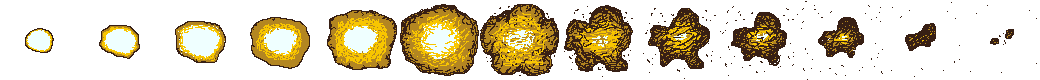
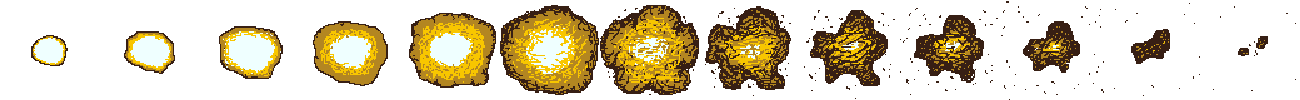
La inn den nye eksplosjonen, fikser kanskje litt p den senere

diff --git a/Tanks/src/entity/Explosion.java b/Tanks/src/entity/Explosion.java
@@ -14,13 +14,9 @@ public class Explosion extends Entity {
 		super(x, y, radius, radius, level);
 
 		this.explosionPower = explosionPower;
-<<<<<<< HEAD
 		if(radius >= 25)
-			ani = new Animation( AnimationFactory.getInstance().getAnimation(Animations.EXPLOSIONS,Animations.SMALLEXPLOSION),9,0,x,y,level);
-		ani = new Animation( AnimationFactory.getInstance().getAnimation(Animations.EXPLOSIONS,Animations.BIGEXPLOSION),13,0,x,y,level);
-=======
-		Animation ani = new Animation( AnimationFactory.getInstance().getAnimation(Animations.EXPLOSIONS,Animations.SMALLEXPLOSION),18,0,x,y,level);
->>>>>>> 15408c03b393657f6d041149724f1fdacd83c727
+			ani = new Animation( AnimationFactory.getInstance().getAnimation(Animations.EXPLOSIONS,Animations.SMALLEXPLOSION),18,0,x,y,level);
+		ani = new Animation( AnimationFactory.getInstance().getAnimation(Animations.EXPLOSIONS,Animations.BIGEXPLOSION),26,0,x,y,level);
 		level.addEntity(ani);
 				 
 

diff --git a/Tanks/src/level/testLevel.java b/Tanks/src/level/testLevel.java
@@ -73,6 +73,7 @@ public class testLevel extends BasicLevel {
 		addEntity(tankEntity2);
 
 		AnimationFactory.getInstance().addSpriteSheet(new File("./res/Explosion1.png"), Animations.EXPLOSIONS, 50, 50);
+		AnimationFactory.getInstance().addSpriteSheet(new File("./res/Explosion2.png"), Animations.EXPLOSIONS, 100, 100);
 
 		scoreBubble = new RGBImage(new File("./res/Scorebubble.png"));
 		grenade = new RGBImage(new File("./res/Grenade_temp.png"));
@@ -90,8 +91,8 @@ public class testLevel extends BasicLevel {
 	}
 
 	//
-	public void tick() {
-		super.tick();
+	public void tick(double dt) {
+		super.tick(dt);
 		// addEntity(new ScoreBubble(rand.nextInt(1000), 10, 5, this, 0.3, 0,
 		// 100));
 		// addEntity(new ScoreBubble(rand.nextInt(1000), 10, 5, this, 0.3, 0,

diff --git a/Tanks/src/entity/Grenade.java b/Tanks/src/entity/Grenade.java
@@ -28,8 +28,6 @@ public class Grenade extends Projectile {
 	public void explode() {
 		level.getTerrain().addExplosion((int) (x - explosionRadius), (int) (y - explosionRadius), explosionRadius);
 		level.addEntity(new Explosion(x, y, explosionRadius + 2, level, explosionPower));
-//		level.addEntity(new Animation(AnimationFactory.getInstance().getAnimation(Animations.TEST,
-//				Animations.TEST_ANIMATION), 240, 0, x, y, level));
 
 	}
 
@@ -75,7 +73,6 @@ public class Grenade extends Projectile {
 
 	@Override
 	public void render(Renderer renderer) {
-		// TODO Auto-generated method stub
 		RGBImage img = ResourceManager.GRENADE;
 		renderer.DrawImage(img, -1, (int) (x - getXr()),(int) (y - getYr()), img.getWidth(), img.getHeight());
 		

diff --git a/Tanks/src/entity/Projectile.java b/Tanks/src/entity/Projectile.java
@@ -37,13 +37,12 @@ public abstract class Projectile extends Entity {
 	abstract public void explode();
 	
 	
-<<<<<<< HEAD
 //	@Override
 //	public void tick() {
 //		super.tick();
 //		while(level.getTerrain().hitTestpoint(x, y))
 //	}
-=======
+	
 	@Override
 	public void tick(double dt) {
 		
@@ -59,5 +58,4 @@ public abstract class Projectile extends Entity {
 		super.tick(dt);
 		
 	}
->>>>>>> 15408c03b393657f6d041149724f1fdacd83c727
 }
